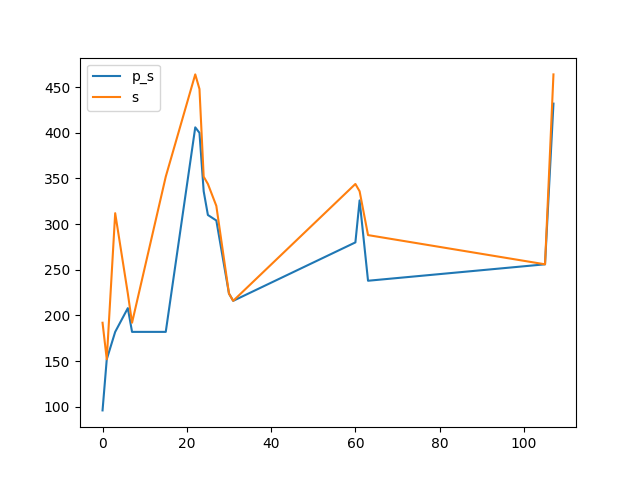
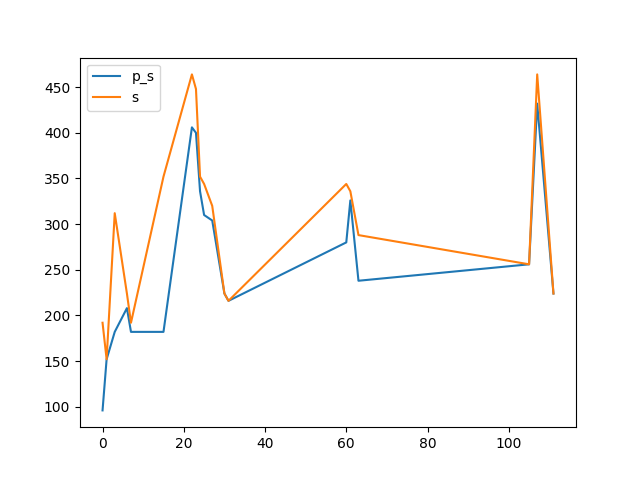
0x006F

diff --git a/benchmark.md b/benchmark.md
@@ -38,16 +38,18 @@
 
 [INFO] Synthesising NPN Class=17 TruthTable:0x006B pexact:432 r=5 exact:464 r=5 time=250.84min 
 
+[INFO] Synthesising NPN Class=18 TruthTable:0x006F pexact:224 r=3 exact:224 r=3 time=251.04min 
+
 ```mermaid
 xychart-beta
     title "Comparison powertwoexact twoexact"
-    x-axis [0, 1, 3, 6, 7, 15, 22, 23, 24, 25, 27, 30, 31, 60, 61, 63, 105, 107]
+    x-axis [0, 1, 3, 6, 7, 15, 22, 23, 24, 25, 27, 30, 31, 60, 61, 63, 105, 107, 111]
     y-axis "Switching Activity" 0-->464
-    line [96, 152, 182, 208, 182, 182, 406, 400, 336, 310, 304, 224, 216, 280, 326, 238, 256, 432]
-    line [192, 152, 312, 224, 192, 352, 464, 448, 352, 344, 320, 224, 216, 344, 336, 288, 256, 464]
-    line [262.77777777777777, 262.77777777777777, 262.77777777777777, 262.77777777777777, 262.77777777777777, 262.77777777777777, 262.77777777777777, 262.77777777777777, 262.77777777777777, 262.77777777777777, 262.77777777777777, 262.77777777777777, 262.77777777777777, 262.77777777777777, 262.77777777777777, 262.77777777777777, 262.77777777777777, 262.77777777777777]
-    line [304.44444444444446, 304.44444444444446, 304.44444444444446, 304.44444444444446, 304.44444444444446, 304.44444444444446, 304.44444444444446, 304.44444444444446, 304.44444444444446, 304.44444444444446, 304.44444444444446, 304.44444444444446, 304.44444444444446, 304.44444444444446, 304.44444444444446, 304.44444444444446, 304.44444444444446, 304.44444444444446]
-    bar [80, 60, 80, 80, 80, 80, 120, 120, 100, 100, 100, 60, 60, 80, 100, 100, 60, 100]
-    bar [80, 60, 80, 60, 60, 80, 100, 100, 80, 80, 80, 60, 60, 80, 80, 80, 60, 100]
+    line [96, 152, 182, 208, 182, 182, 406, 400, 336, 310, 304, 224, 216, 280, 326, 238, 256, 432, 224]
+    line [192, 152, 312, 224, 192, 352, 464, 448, 352, 344, 320, 224, 216, 344, 336, 288, 256, 464, 224]
+    line [260.7368421052632, 260.7368421052632, 260.7368421052632, 260.7368421052632, 260.7368421052632, 260.7368421052632, 260.7368421052632, 260.7368421052632, 260.7368421052632, 260.7368421052632, 260.7368421052632, 260.7368421052632, 260.7368421052632, 260.7368421052632, 260.7368421052632, 260.7368421052632, 260.7368421052632, 260.7368421052632, 260.7368421052632]
+    line [300.2105263157895, 300.2105263157895, 300.2105263157895, 300.2105263157895, 300.2105263157895, 300.2105263157895, 300.2105263157895, 300.2105263157895, 300.2105263157895, 300.2105263157895, 300.2105263157895, 300.2105263157895, 300.2105263157895, 300.2105263157895, 300.2105263157895, 300.2105263157895, 300.2105263157895, 300.2105263157895, 300.2105263157895]
+    bar [80, 60, 80, 80, 80, 80, 120, 120, 100, 100, 100, 60, 60, 80, 100, 100, 60, 100, 60]
+    bar [80, 60, 80, 60, 60, 80, 100, 100, 80, 80, 80, 60, 60, 80, 80, 80, 60, 100, 60]
 ```
 
